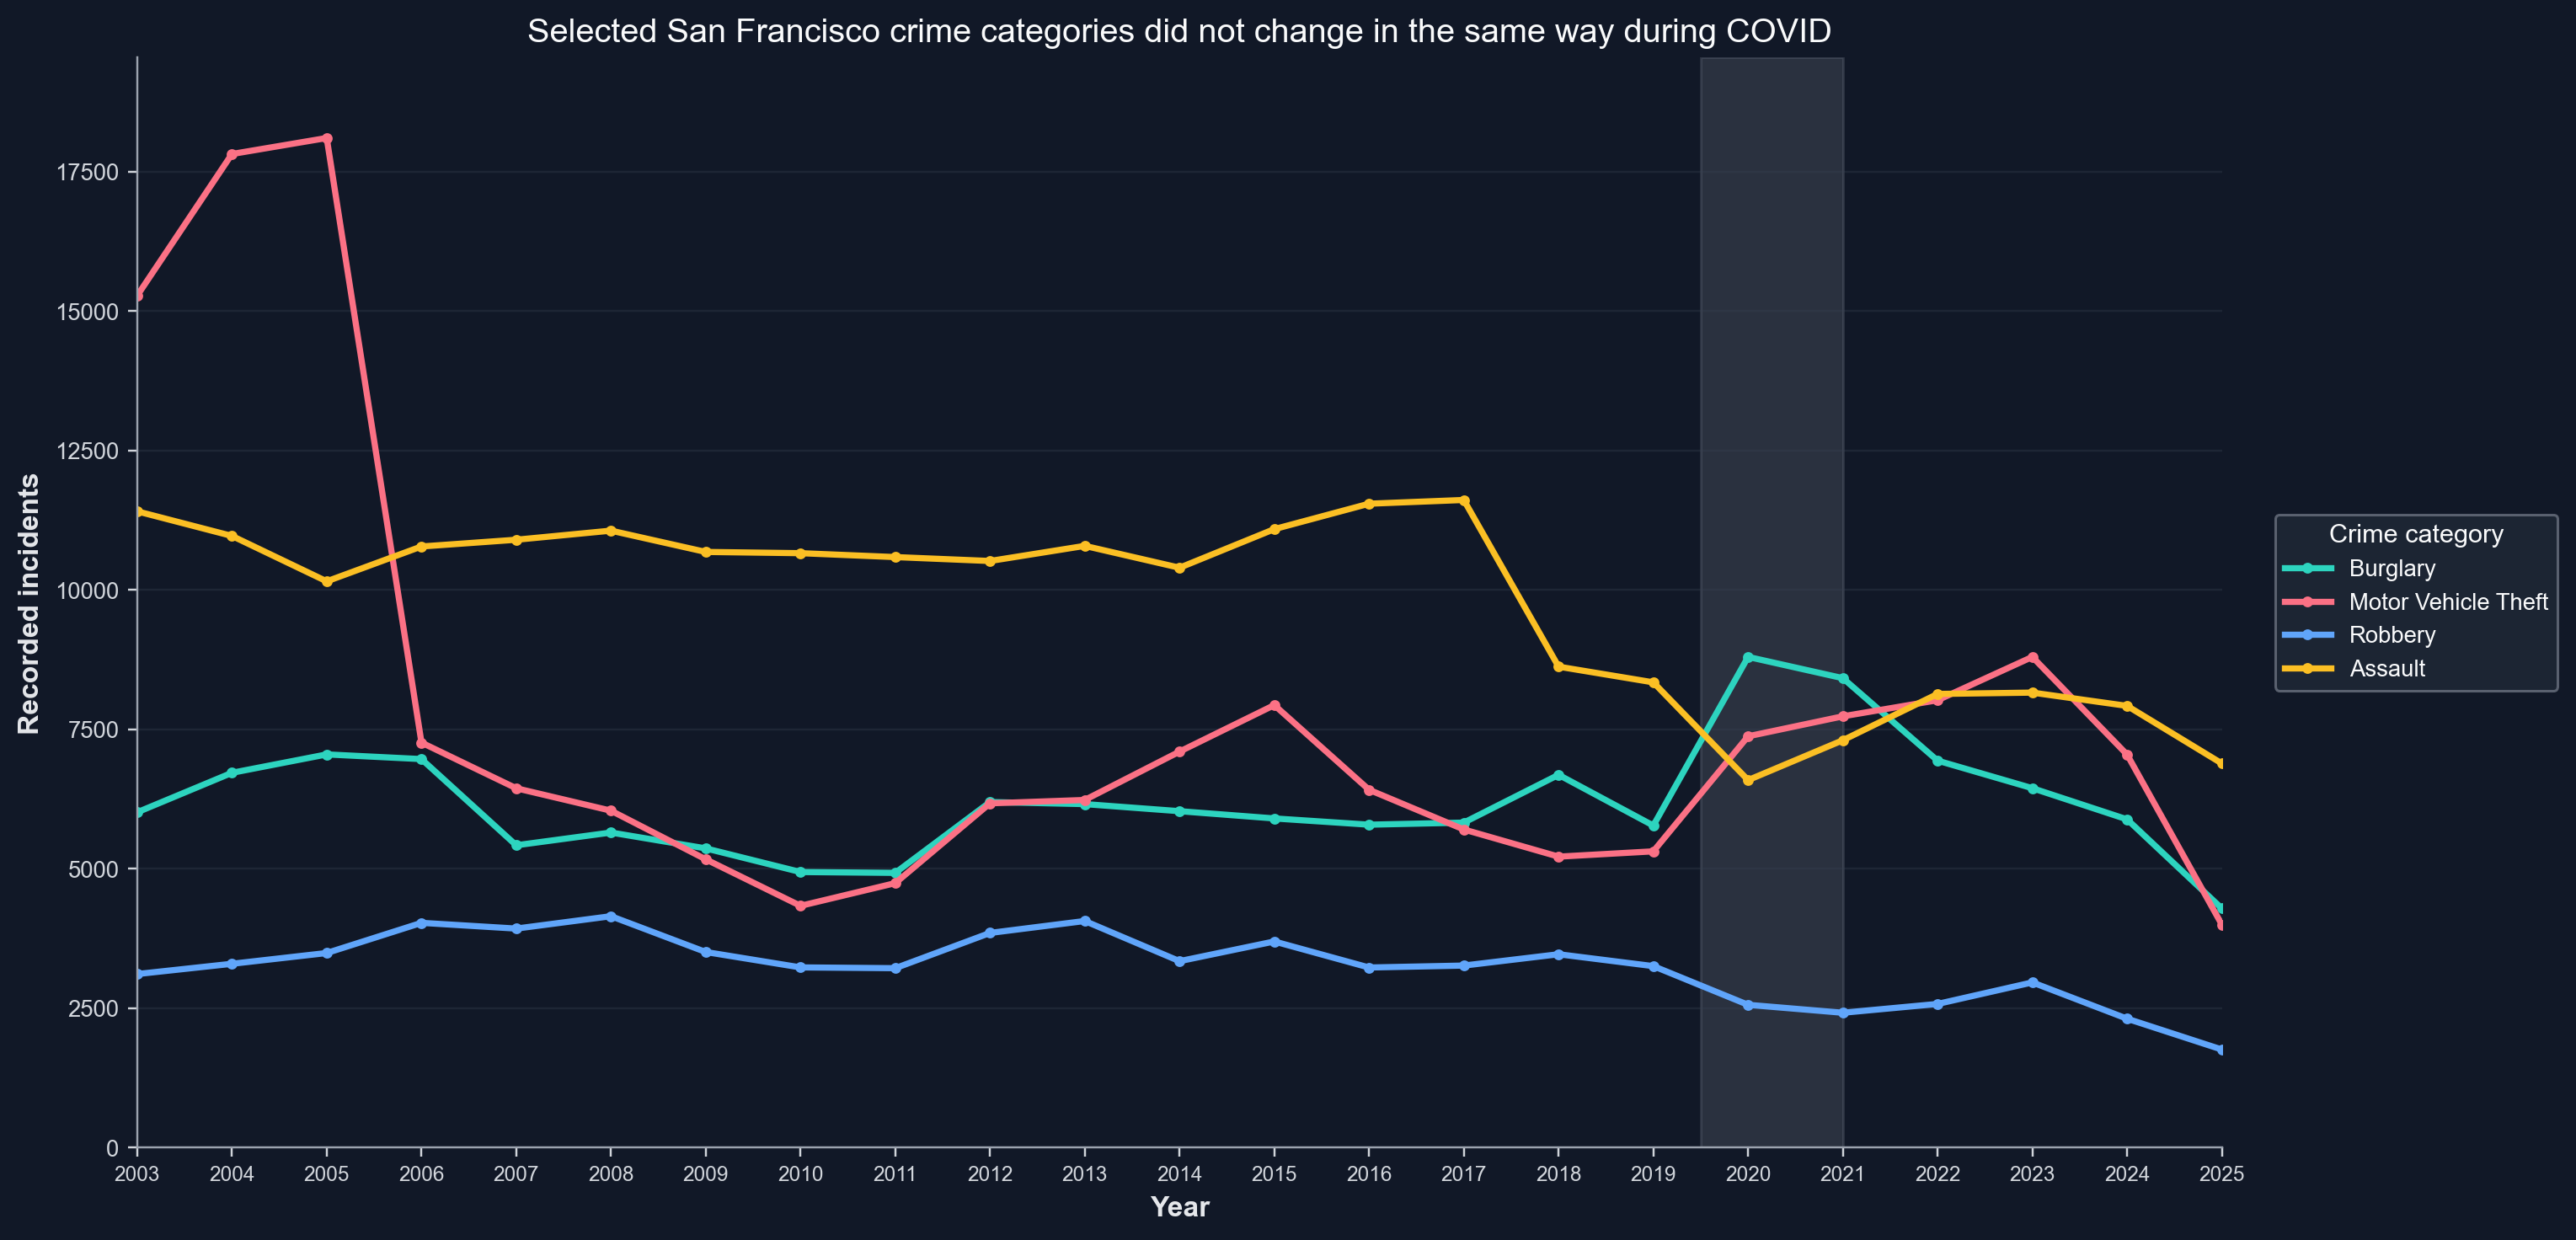
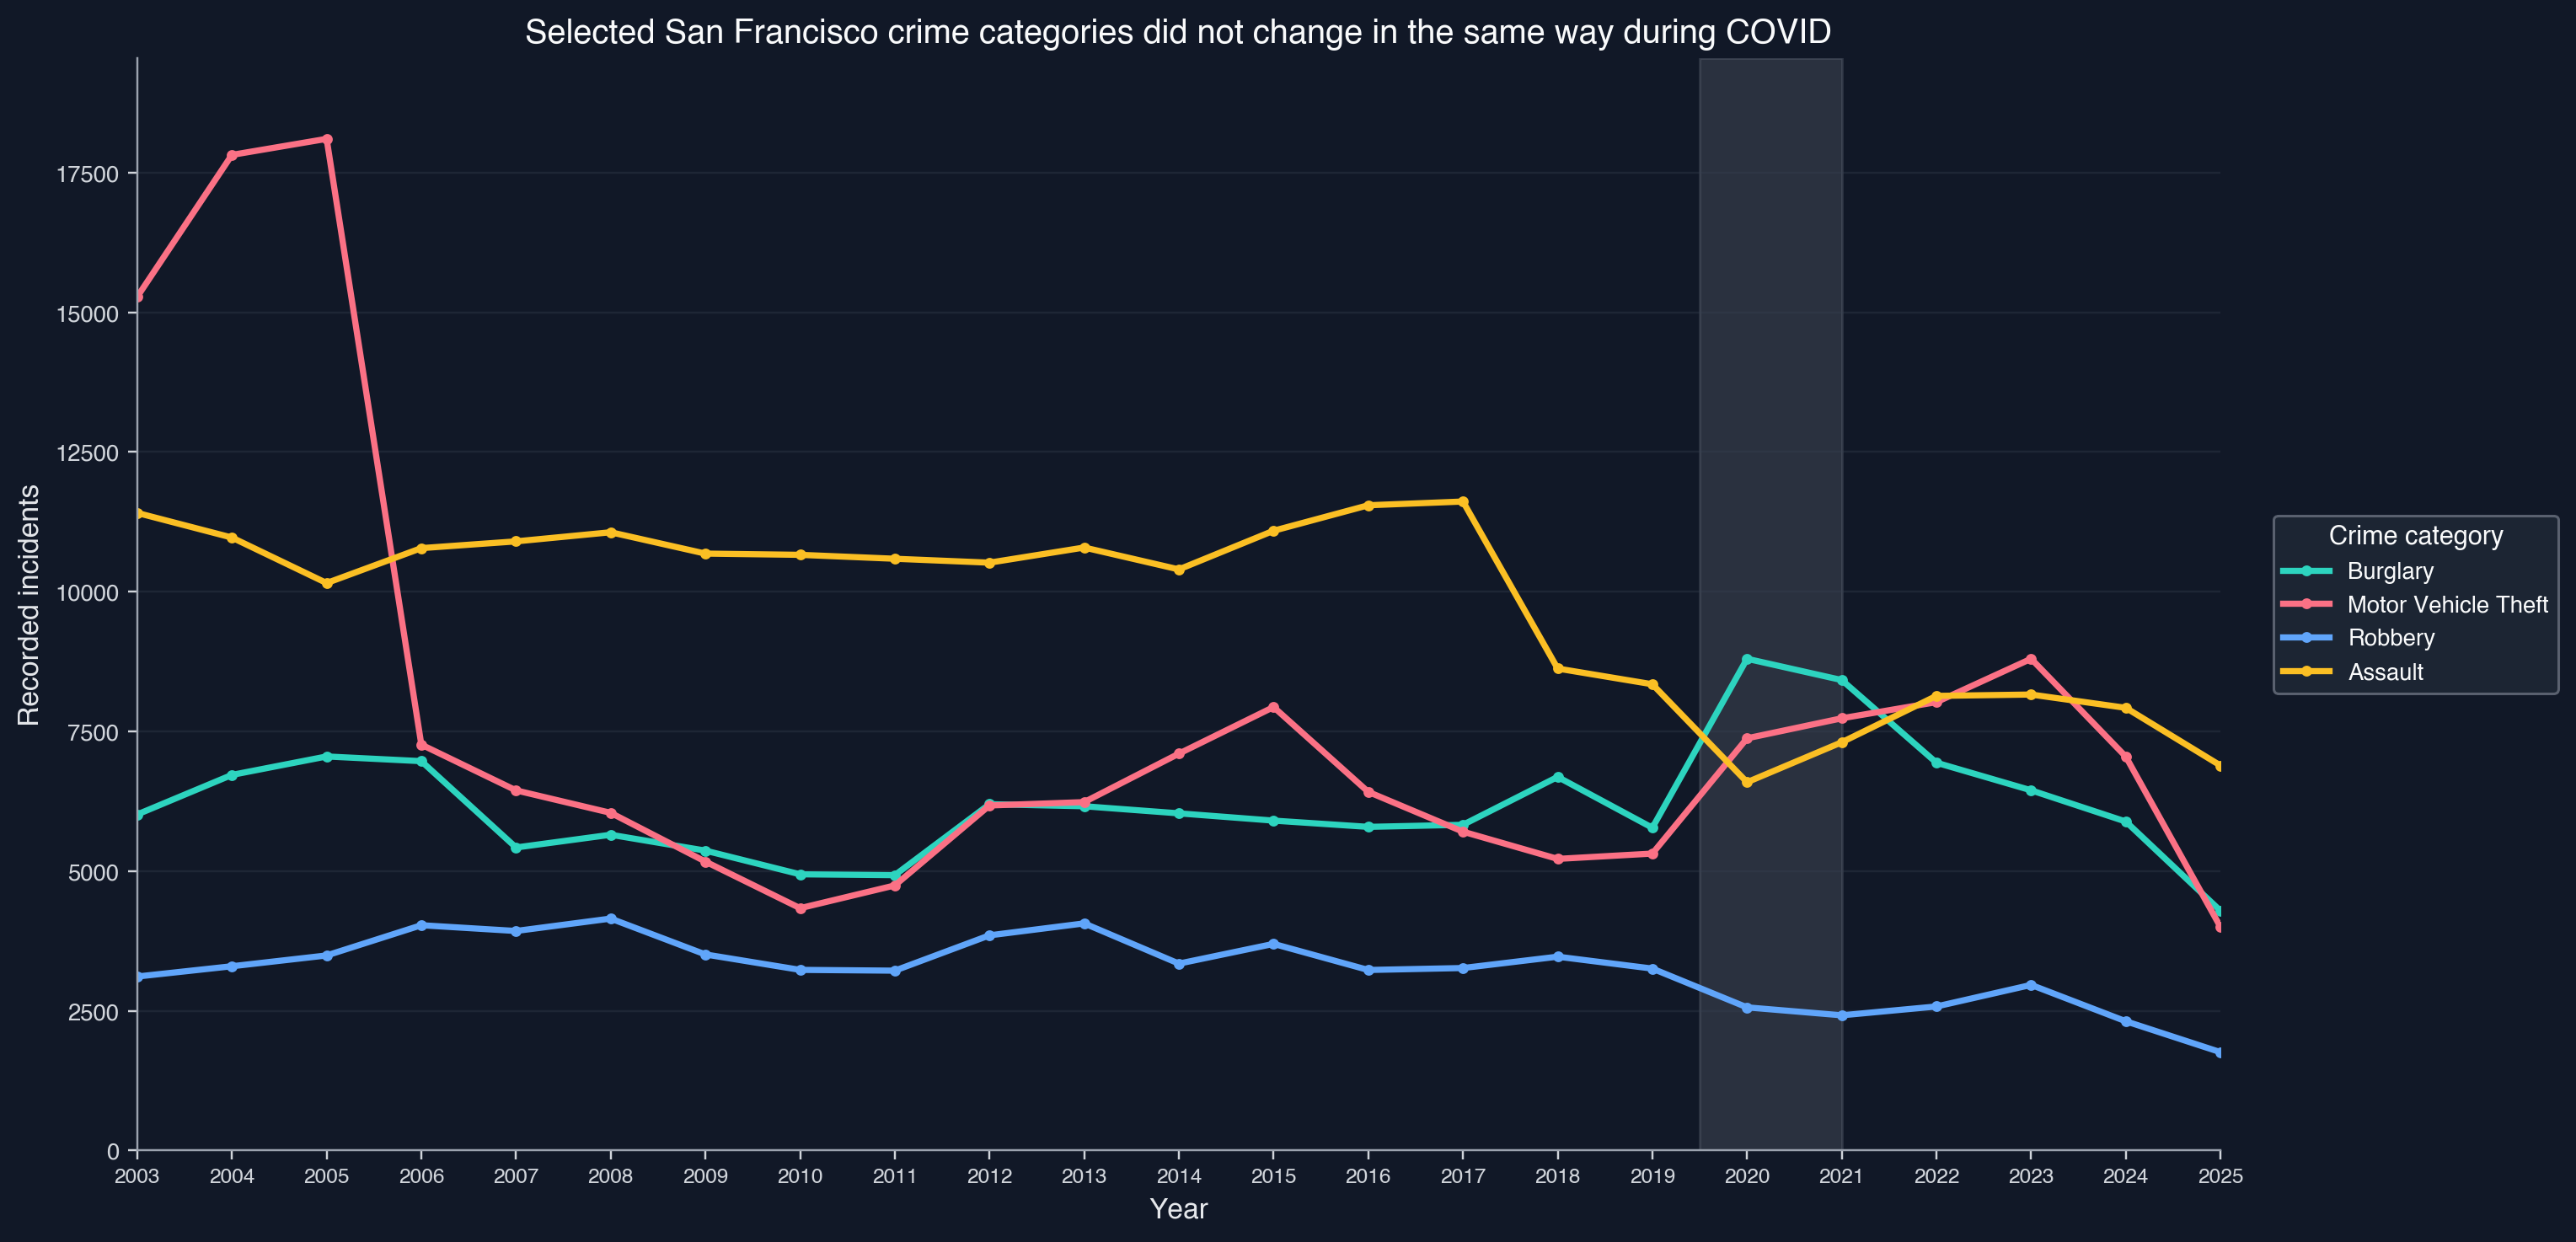
update visualizations

diff --git a/visualizations/district_before_vs_during_selector.html b/visualizations/district_before_vs_during_selector.html
@@ -86,8 +86,8 @@
     <div class="wrapper">
         <div class="layout">
             <div class="chart-area">
-                <div>                        <script>window.PlotlyConfig = {MathJaxConfig: 'local'};</script>
[1 lines of base64/hex data omitted]
+                <div>                        <script type="text/javascript">window.PlotlyConfig = {MathJaxConfig: 'local'};</script>
+        <script charset="utf-8" src="https://cdn.plot.ly/plotly-2.35.2.min.js"></script>                <div id="crimeChart" class="plotly-graph-div" style="height:700px; width:100%;"></div>            <script type="text/javascript">                                    window.PLOTLYENV=window.PLOTLYENV || {};                                    if (document.getElementById("crimeChart")) {                    Plotly.newPlot(                        "crimeChart",                        [{"hoverinfo":"skip","line":{"color":"rgba(156,163,175,0.45)","width":2},"mode":"lines","showlegend":false,"visible":true,"x":[292.0,371.5],"y":["TENDERLOIN","TENDERLOIN"],"type":"scatter"},{"hoverinfo":"skip","line":{"color":"rgba(156,163,175,0.45)","width":2},"mode":"lines","showlegend":false,"visible":true,"x":[552.5,564.5],"y":["BAYVIEW","BAYVIEW"],"type":"scatter"},{"hoverinfo":"skip","line":{"color":"rgba(156,163,175,0.45)","width":2},"mode":"lines","showlegend":false,"visible":true,"x":[350.5,639.5],"y":["PARK","PARK"],"type":"scatter"},{"hoverinfo":"skip","line":{"color":"rgba(156,163,175,0.45)","width":2},"mode":"lines","showlegend":false,"visible":true,"x":[509.5,643.0],"y":["TARAVAL","TARAVAL"],"type":"scatter"},{"hoverinfo":"skip","line":{"color":"rgba(156,163,175,0.45)","width":2},"mode":"lines","showlegend":false,"visible":true,"x":[349.0,702.5],"y":["RICHMOND","RICHMOND"],"type":"scatter"},{"hoverinfo":"skip","line":{"color":"rgba(156,163,175,0.45)","width":2},"mode":"lines","showlegend":false,"visible":true,"x":[580.5,725.5],"y":["INGLESIDE","INGLESIDE"],"type":"scatter"},{"hoverinfo":"skip","line":{"color":"rgba(156,163,175,0.45)","width":2},"mode":"lines","showlegend":false,"visible":true,"x":[614.5,1061.5],"y":["MISSION","MISSION"],"type":"scatter"},{"hoverinfo":"skip","line":{"color":"rgba(156,163,175,0.45)","width":2},"mode":"lines","showlegend":false,"visible":true,"x":[949.5,1085.0],"y":["SOUTHERN","SOUTHERN"],"type":"scatter"},{"hoverinfo":"skip","line":{"color":"rgba(156,163,175,0.45)","width":2},"mode":"lines","showlegend":false,"visible":true,"x":[1049.0,1140.0],"y":["CENTRAL","CENTRAL"],"type":"scatter"},{"hoverinfo":"skip","line":{"color":"rgba(156,163,175,0.45)","width":2},"mode":"lines","showlegend":false,"visible":true,"x":[967.0,1650.0],"y":["NORTHERN","NORTHERN"],"type":"scatter"},{"customdata":[[371.5,27.22602739726027],[564.5,2.171945701357466],[639.5,82.45363766048503],[643.0,26.20215897939156],[702.5,101.2893982808023],[725.5,24.978466838931958],[1061.5,72.74206672091131],[1085.0,14.270668773038441],[1140.0,8.674928503336512],[1650.0,70.63081695966909]],"hovertemplate":"\u003cb\u003e%{y}\u003c\u002fb\u003e\u003cbr\u003eBefore COVID avg: %{x:.1f} incidents\u002fyear\u003cbr\u003eDuring COVID avg: %{customdata[0]:.1f} incidents\u002fyear\u003cbr\u003ePercent change: %{customdata[1]:.1f}%\u003cextra\u003e\u003c\u002fextra\u003e","marker":{"color":"#60A5FA","size":10},"mode":"markers","showlegend":false,"visible":true,"x":[292.0,552.5,350.5,509.5,349.0,580.5,614.5,949.5,1049.0,967.0],"y":["TENDERLOIN","BAYVIEW","PARK","TARAVAL","RICHMOND","INGLESIDE","MISSION","SOUTHERN","CENTRAL","NORTHERN"],"type":"scatter"},{"customdata":[[292.0,27.22602739726027],[552.5,2.171945701357466],[350.5,82.45363766048503],[509.5,26.20215897939156],[349.0,101.2893982808023],[580.5,24.978466838931958],[614.5,72.74206672091131],[949.5,14.270668773038441],[1049.0,8.674928503336512],[967.0,70.63081695966909]],"hovertemplate":"\u003cb\u003e%{y}\u003c\u002fb\u003e\u003cbr\u003eDuring COVID avg: %{x:.1f} incidents\u002fyear\u003cbr\u003eBefore COVID avg: %{customdata[0]:.1f} incidents\u002fyear\u003cbr\u003ePercent change: %{customdata[1]:.1f}%\u003cextra\u003e\u003c\u002fextra\u003e","marker":{"color":"#FB7185","size":10},"mode":"markers","showlegend":false,"visible":true,"x":[371.5,564.5,639.5,643.0,702.5,725.5,1061.5,1085.0,1140.0,1650.0],"y":["TENDERLOIN","BAYVIEW","PARK","TARAVAL","RICHMOND","INGLESIDE","MISSION","SOUTHERN","CENTRAL","NORTHERN"],"type":"scatter"},{"hoverinfo":"skip","line":{"color":"rgba(156,163,175,0.45)","width":2},"mode":"lines","showlegend":false,"visible":false,"x":[216.0,350.0],"y":["TENDERLOIN","TENDERLOIN"],"type":"scatter"},{"hoverinfo":"skip","line":{"color":"rgba(156,163,175,0.45)","width":2},"mode":"lines","showlegend":false,"visible":false,"x":[282.5,395.0],"y":["PARK","PARK"],"type":"scatter"},{"hoverinfo":"skip","line":{"color":"rgba(156,163,175,0.45)","width":2},"mode":"lines","showlegend":false,"visible":false,"x":[338.5,519.0],"y":["RICHMOND","RICHMOND"],"type":"scatter"},{"hoverinfo":"skip","line":{"color":"rgba(156,163,175,0.45)","width":2},"mode":"lines","showlegend":false,"visible":false,"x":[507.0,536.0],"y":["CENTRAL","CENTRAL"],"type":"scatter"},{"hoverinfo":"skip","line":{"color":"rgba(156,163,175,0.45)","width":2},"mode":"lines","showlegend":false,"visible":false,"x":[603.5,698.0],"y":["SOUTHERN","SOUTHERN"],"type":"scatter"},{"hoverinfo":"skip","line":{"color":"rgba(156,163,175,0.45)","width":2},"mode":"lines","showlegend":false,"visible":false,"x":[499.5,743.5],"y":["TARAVAL","TARAVAL"],"type":"scatter"},{"hoverinfo":"skip","line":{"color":"rgba(156,163,175,0.45)","width":2},"mode":"lines","showlegend":false,"visible":false,"x":[582.5,867.0],"y":["NORTHERN","NORTHERN"],"type":"scatter"},{"hoverinfo":"skip","line":{"color":"rgba(156,163,175,0.45)","width":2},"mode":"lines","showlegend":false,"visible":false,"x":[691.5,981.0],"y":["MISSION","MISSION"],"type":"scatter"},{"hoverinfo":"skip","line":{"color":"rgba(156,163,175,0.45)","width":2},"mode":"lines","showlegend":false,"visible":false,"x":[626.0,1105.5],"y":["INGLESIDE","INGLESIDE"],"type":"scatter"},{"hoverinfo":"skip","line":{"color":"rgba(156,163,175,0.45)","width":2},"mode":"lines","showlegend":false,"visible":false,"x":[848.0,1268.0],"y":["BAYVIEW","BAYVIEW"],"type":"scatter"},{"customdata":[[350.0,62.03703703703704],[395.0,39.823008849557525],[519.0,53.32348596750369],[536.0,5.719921104536489],[698.0,15.658657829328915],[743.5,48.848848848848846],[867.0,48.8412017167382],[981.0,41.86550976138829],[1105.5,76.59744408945687],[1268.0,49.528301886792455]],"hovertemplate":"\u003cb\u003e%{y}\u003c\u002fb\u003e\u003cbr\u003eBefore COVID avg: %{x:.1f} incidents\u002fyear\u003cbr\u003eDuring COVID avg: %{customdata[0]:.1f} incidents\u002fyear\u003cbr\u003ePercent change: %{customdata[1]:.1f}%\u003cextra\u003e\u003c\u002fextra\u003e","marker":{"color":"#60A5FA","size":10},"mode":"markers","showlegend":false,"visible":false,"x":[216.0,282.5,338.5,507.0,603.5,499.5,582.5,691.5,626.0,848.0],"y":["TENDERLOIN","PARK","RICHMOND","CENTRAL","SOUTHERN","TARAVAL","NORTHERN","MISSION","INGLESIDE","BAYVIEW"],"type":"scatter"},{"customdata":[[216.0,62.03703703703704],[282.5,39.823008849557525],[338.5,53.32348596750369],[507.0,5.719921104536489],[603.5,15.658657829328915],[499.5,48.848848848848846],[582.5,48.8412017167382],[691.5,41.86550976138829],[626.0,76.59744408945687],[848.0,49.528301886792455]],"hovertemplate":"\u003cb\u003e%{y}\u003c\u002fb\u003e\u003cbr\u003eDuring COVID avg: %{x:.1f} incidents\u002fyear\u003cbr\u003eBefore COVID avg: %{customdata[0]:.1f} incidents\u002fyear\u003cbr\u003ePercent change: %{customdata[1]:.1f}%\u003cextra\u003e\u003c\u002fextra\u003e","marker":{"color":"#FB7185","size":10},"mode":"markers","showlegend":false,"visible":false,"x":[350.0,395.0,519.0,536.0,698.0,743.5,867.0,981.0,1105.5,1268.0],"y":["TENDERLOIN","PARK","RICHMOND","CENTRAL","SOUTHERN","TARAVAL","NORTHERN","MISSION","INGLESIDE","BAYVIEW"],"type":"scatter"},{"hoverinfo":"skip","line":{"color":"rgba(156,163,175,0.45)","width":2},"mode":"lines","showlegend":false,"visible":false,"x":[70.5,52.0],"y":["PARK","PARK"],"type":"scatter"},{"hoverinfo":"skip","line":{"color":"rgba(156,163,175,0.45)","width":2},"mode":"lines","showlegend":false,"visible":false,"x":[103.5,111.0],"y":["RICHMOND","RICHMOND"],"type":"scatter"},{"hoverinfo":"skip","line":{"color":"rgba(156,163,175,0.45)","width":2},"mode":"lines","showlegend":false,"visible":false,"x":[152.5,119.0],"y":["TARAVAL","TARAVAL"],"type":"scatter"},{"hoverinfo":"skip","line":{"color":"rgba(156,163,175,0.45)","width":2},"mode":"lines","showlegend":false,"visible":false,"x":[330.0,257.5],"y":["INGLESIDE","INGLESIDE"],"type":"scatter"},{"hoverinfo":"skip","line":{"color":"rgba(156,163,175,0.45)","width":2},"mode":"lines","showlegend":false,"visible":false,"x":[363.0,261.5],"y":["SOUTHERN","SOUTHERN"],"type":"scatter"},{"hoverinfo":"skip","line":{"color":"rgba(156,163,175,0.45)","width":2},"mode":"lines","showlegend":false,"visible":false,"x":[371.5,262.0],"y":["BAYVIEW","BAYVIEW"],"type":"scatter"},{"hoverinfo":"skip","line":{"color":"rgba(156,163,175,0.45)","width":2},"mode":"lines","showlegend":false,"visible":false,"x":[506.0,337.0],"y":["TENDERLOIN","TENDERLOIN"],"type":"scatter"},{"hoverinfo":"skip","line":{"color":"rgba(156,163,175,0.45)","width":2},"mode":"lines","showlegend":false,"visible":false,"x":[386.5,340.5],"y":["NORTHERN","NORTHERN"],"type":"scatter"},{"hoverinfo":"skip","line":{"color":"rgba(156,163,175,0.45)","width":2},"mode":"lines","showlegend":false,"visible":false,"x":[539.0,345.0],"y":["CENTRAL","CENTRAL"],"type":"scatter"},{"hoverinfo":"skip","line":{"color":"rgba(156,163,175,0.45)","width":2},"mode":"lines","showlegend":false,"visible":false,"x":[503.5,370.5],"y":["MISSION","MISSION"],"type":"scatter"},{"customdata":[[52.0,-26.24113475177305],[111.0,7.246376811594203],[119.0,-21.9672131147541],[257.5,-21.96969696969697],[261.5,-27.96143250688705],[262.0,-29.475100942126513],[337.0,-33.39920948616601],[340.5,-11.901681759379043],[345.0,-35.99257884972171],[370.5,-26.41509433962264]],"hovertemplate":"\u003cb\u003e%{y}\u003c\u002fb\u003e\u003cbr\u003eBefore COVID avg: %{x:.1f} incidents\u002fyear\u003cbr\u003eDuring COVID avg: %{customdata[0]:.1f} incidents\u002fyear\u003cbr\u003ePercent change: %{customdata[1]:.1f}%\u003cextra\u003e\u003c\u002fextra\u003e","marker":{"color":"#60A5FA","size":10},"mode":"markers","showlegend":false,"visible":false,"x":[70.5,103.5,152.5,330.0,363.0,371.5,506.0,386.5,539.0,503.5],"y":["PARK","RICHMOND","TARAVAL","INGLESIDE","SOUTHERN","BAYVIEW","TENDERLOIN","NORTHERN","CENTRAL","MISSION"],"type":"scatter"},{"customdata":[[70.5,-26.24113475177305],[103.5,7.246376811594203],[152.5,-21.9672131147541],[330.0,-21.96969696969697],[363.0,-27.96143250688705],[371.5,-29.475100942126513],[506.0,-33.39920948616601],[386.5,-11.901681759379043],[539.0,-35.99257884972171],[503.5,-26.41509433962264]],"hovertemplate":"\u003cb\u003e%{y}\u003c\u002fb\u003e\u003cbr\u003eDuring COVID avg: %{x:.1f} incidents\u002fyear\u003cbr\u003eBefore COVID avg: %{customdata[0]:.1f} incidents\u002fyear\u003cbr\u003ePercent change: %{customdata[1]:.1f}%\u003cextra\u003e\u003c\u002fextra\u003e","marker":{"color":"#FB7185","size":10},"mode":"markers","showlegend":false,"visible":false,"x":[52.0,111.0,119.0,257.5,261.5,262.0,337.0,340.5,345.0,370.5],"y":["PARK","RICHMOND","TARAVAL","INGLESIDE","SOUTHERN","BAYVIEW","TENDERLOIN","NORTHERN","CENTRAL","MISSION"],"type":"scatter"},{"hoverinfo":"skip","line":{"color":"rgba(156,163,175,0.45)","width":2},"mode":"lines","showlegend":false,"visible":false,"x":[287.5,199.0],"y":["PARK","PARK"],"type":"scatter"},{"hoverinfo":"skip","line":{"color":"rgba(156,163,175,0.45)","width":2},"mode":"lines","showlegend":false,"visible":false,"x":[267.5,240.5],"y":["RICHMOND","RICHMOND"],"type":"scatter"},{"hoverinfo":"skip","line":{"color":"rgba(156,163,175,0.45)","width":2},"mode":"lines","showlegend":false,"visible":false,"x":[459.5,376.5],"y":["TARAVAL","TARAVAL"],"type":"scatter"},{"hoverinfo":"skip","line":{"color":"rgba(156,163,175,0.45)","width":2},"mode":"lines","showlegend":false,"visible":false,"x":[655.5,581.0],"y":["INGLESIDE","INGLESIDE"],"type":"scatter"},{"hoverinfo":"skip","line":{"color":"rgba(156,163,175,0.45)","width":2},"mode":"lines","showlegend":false,"visible":false,"x":[1000.5,742.0],"y":["CENTRAL","CENTRAL"],"type":"scatter"},{"hoverinfo":"skip","line":{"color":"rgba(156,163,175,0.45)","width":2},"mode":"lines","showlegend":false,"visible":false,"x":[897.5,790.0],"y":["NORTHERN","NORTHERN"],"type":"scatter"},{"hoverinfo":"skip","line":{"color":"rgba(156,163,175,0.45)","width":2},"mode":"lines","showlegend":false,"visible":false,"x":[933.0,858.5],"y":["BAYVIEW","BAYVIEW"],"type":"scatter"},{"hoverinfo":"skip","line":{"color":"rgba(156,163,175,0.45)","width":2},"mode":"lines","showlegend":false,"visible":false,"x":[1163.0,896.0],"y":["SOUTHERN","SOUTHERN"],"type":"scatter"},{"hoverinfo":"skip","line":{"color":"rgba(156,163,175,0.45)","width":2},"mode":"lines","showlegend":false,"visible":false,"x":[1454.5,1081.5],"y":["MISSION","MISSION"],"type":"scatter"},{"hoverinfo":"skip","line":{"color":"rgba(156,163,175,0.45)","width":2},"mode":"lines","showlegend":false,"visible":false,"x":[1316.5,1127.0],"y":["TENDERLOIN","TENDERLOIN"],"type":"scatter"},{"customdata":[[199.0,-30.782608695652176],[240.5,-10.093457943925234],[376.5,-18.063112078346027],[581.0,-11.365369946605645],[742.0,-25.837081459270365],[790.0,-11.977715877437326],[858.5,-7.984994640943194],[896.0,-22.957867583834908],[1081.5,-25.64455139223101],[1127.0,-14.394227117356628]],"hovertemplate":"\u003cb\u003e%{y}\u003c\u002fb\u003e\u003cbr\u003eBefore COVID avg: %{x:.1f} incidents\u002fyear\u003cbr\u003eDuring COVID avg: %{customdata[0]:.1f} incidents\u002fyear\u003cbr\u003ePercent change: %{customdata[1]:.1f}%\u003cextra\u003e\u003c\u002fextra\u003e","marker":{"color":"#60A5FA","size":10},"mode":"markers","showlegend":false,"visible":false,"x":[287.5,267.5,459.5,655.5,1000.5,897.5,933.0,1163.0,1454.5,1316.5],"y":["PARK","RICHMOND","TARAVAL","INGLESIDE","CENTRAL","NORTHERN","BAYVIEW","SOUTHERN","MISSION","TENDERLOIN"],"type":"scatter"},{"customdata":[[287.5,-30.782608695652176],[267.5,-10.093457943925234],[459.5,-18.063112078346027],[655.5,-11.365369946605645],[1000.5,-25.837081459270365],[897.5,-11.977715877437326],[933.0,-7.984994640943194],[1163.0,-22.957867583834908],[1454.5,-25.64455139223101],[1316.5,-14.394227117356628]],"hovertemplate":"\u003cb\u003e%{y}\u003c\u002fb\u003e\u003cbr\u003eDuring COVID avg: %{x:.1f} incidents\u002fyear\u003cbr\u003eBefore COVID avg: %{customdata[0]:.1f} incidents\u002fyear\u003cbr\u003ePercent change: %{customdata[1]:.1f}%\u003cextra\u003e\u003c\u002fextra\u003e","marker":{"color":"#FB7185","size":10},"mode":"markers","showlegend":false,"visible":false,"x":[199.0,240.5,376.5,581.0,742.0,790.0,858.5,896.0,1081.5,1127.0],"y":["PARK","RICHMOND","TARAVAL","INGLESIDE","CENTRAL","NORTHERN","BAYVIEW","SOUTHERN","MISSION","TENDERLOIN"],"type":"scatter"}],                        {"template":{"data":{"barpolar":[{"marker":{"line":{"color":"rgb(17,17,17)","width":0.5},"pattern":{"fillmode":"overlay","size":10,"solidity":0.2}},"type":"barpolar"}],"bar":[{"error_x":{"color":"#f2f5fa"},"error_y":{"color":"#f2f5fa"},"marker":{"line":{"color":"rgb(17,17,17)","width":0.5},"pattern":{"fillmode":"overlay","size":10,"solidity":0.2}},"type":"bar"}],"carpet":[{"aaxis":{"endlinecolor":"#A2B1C6","gridcolor":"#506784","linecolor":"#506784","minorgridcolor":"#506784","startlinecolor":"#A2B1C6"},"baxis":{"endlinecolor":"#A2B1C6","gridcolor":"#506784","linecolor":"#506784","minorgridcolor":"#506784","startlinecolor":"#A2B1C6"},"type":"carpet"}],"choropleth":[{"colorbar":{"outlinewidth":0,"ticks":""},"type":"choropleth"}],"contourcarpet":[{"colorbar":{"outlinewidth":0,"ticks":""},"type":"contourcarpet"}],"contour":[{"colorbar":{"outlinewidth":0,"ticks":""},"colorscale":[[0.0,"#0d0887"],[0.1111111111111111,"#46039f"],[0.2222222222222222,"#7201a8"],[0.3333333333333333,"#9c179e"],[0.4444444444444444,"#bd3786"],[0.5555555555555556,"#d8576b"],[0.6666666666666666,"#ed7953"],[0.7777777777777778,"#fb9f3a"],[0.8888888888888888,"#fdca26"],[1.0,"#f0f921"]],"type":"contour"}],"heatmapgl":[{"colorbar":{"outlinewidth":0,"ticks":""},"colorscale":[[0.0,"#0d0887"],[0.1111111111111111,"#46039f"],[0.2222222222222222,"#7201a8"],[0.3333333333333333,"#9c179e"],[0.4444444444444444,"#bd3786"],[0.5555555555555556,"#d8576b"],[0.6666666666666666,"#ed7953"],[0.7777777777777778,"#fb9f3a"],[0.8888888888888888,"#fdca26"],[1.0,"#f0f921"]],"type":"heatmapgl"}],"heatmap":[{"colorbar":{"outlinewidth":0,"ticks":""},"colorscale":[[0.0,"#0d0887"],[0.1111111111111111,"#46039f"],[0.2222222222222222,"#7201a8"],[0.3333333333333333,"#9c179e"],[0.4444444444444444,"#bd3786"],[0.5555555555555556,"#d8576b"],[0.6666666666666666,"#ed7953"],[0.7777777777777778,"#fb9f3a"],[0.8888888888888888,"#fdca26"],[1.0,"#f0f921"]],"type":"heatmap"}],"histogram2dcontour":[{"colorbar":{"outlinewidth":0,"ticks":""},"colorscale":[[0.0,"#0d0887"],[0.1111111111111111,"#46039f"],[0.2222222222222222,"#7201a8"],[0.3333333333333333,"#9c179e"],[0.4444444444444444,"#bd3786"],[0.5555555555555556,"#d8576b"],[0.6666666666666666,"#ed7953"],[0.7777777777777778,"#fb9f3a"],[0.8888888888888888,"#fdca26"],[1.0,"#f0f921"]],"type":"histogram2dcontour"}],"histogram2d":[{"colorbar":{"outlinewidth":0,"ticks":""},"colorscale":[[0.0,"#0d0887"],[0.1111111111111111,"#46039f"],[0.2222222222222222,"#7201a8"],[0.3333333333333333,"#9c179e"],[0.4444444444444444,"#bd3786"],[0.5555555555555556,"#d8576b"],[0.6666666666666666,"#ed7953"],[0.7777777777777778,"#fb9f3a"],[0.8888888888888888,"#fdca26"],[1.0,"#f0f921"]],"type":"histogram2d"}],"histogram":[{"marker":{"pattern":{"fillmode":"overlay","size":10,"solidity":0.2}},"type":"histogram"}],"mesh3d":[{"colorbar":{"outlinewidth":0,"ticks":""},"type":"mesh3d"}],"parcoords":[{"line":{"colorbar":{"outlinewidth":0,"ticks":""}},"type":"parcoords"}],"pie":[{"automargin":true,"type":"pie"}],"scatter3d":[{"line":{"colorbar":{"outlinewidth":0,"ticks":""}},"marker":{"colorbar":{"outlinewidth":0,"ticks":""}},"type":"scatter3d"}],"scattercarpet":[{"marker":{"colorbar":{"outlinewidth":0,"ticks":""}},"type":"scattercarpet"}],"scattergeo":[{"marker":{"colorbar":{"outlinewidth":0,"ticks":""}},"type":"scattergeo"}],"scattergl":[{"marker":{"line":{"color":"#283442"}},"type":"scattergl"}],"scattermapbox":[{"marker":{"colorbar":{"outlinewidth":0,"ticks":""}},"type":"scattermapbox"}],"scatterpolargl":[{"marker":{"colorbar":{"outlinewidth":0,"ticks":""}},"type":"scatterpolargl"}],"scatterpolar":[{"marker":{"colorbar":{"outlinewidth":0,"ticks":""}},"type":"scatterpolar"}],"scatter":[{"marker":{"line":{"color":"#283442"}},"type":"scatter"}],"scatterternary":[{"marker":{"colorbar":{"outlinewidth":0,"ticks":""}},"type":"scatterternary"}],"surface":[{"colorbar":{"outlinewidth":0,"ticks":""},"colorscale":[[0.0,"#0d0887"],[0.1111111111111111,"#46039f"],[0.2222222222222222,"#7201a8"],[0.3333333333333333,"#9c179e"],[0.4444444444444444,"#bd3786"],[0.5555555555555556,"#d8576b"],[0.6666666666666666,"#ed7953"],[0.7777777777777778,"#fb9f3a"],[0.8888888888888888,"#fdca26"],[1.0,"#f0f921"]],"type":"surface"}],"table":[{"cells":{"fill":{"color":"#506784"},"line":{"color":"rgb(17,17,17)"}},"header":{"fill":{"color":"#2a3f5f"},"line":{"color":"rgb(17,17,17)"}},"type":"table"}]},"layout":{"annotationdefaults":{"arrowcolor":"#f2f5fa","arrowhead":0,"arrowwidth":1},"autotypenumbers":"strict","coloraxis":{"colorbar":{"outlinewidth":0,"ticks":""}},"colorscale":{"diverging":[[0,"#8e0152"],[0.1,"#c51b7d"],[0.2,"#de77ae"],[0.3,"#f1b6da"],[0.4,"#fde0ef"],[0.5,"#f7f7f7"],[0.6,"#e6f5d0"],[0.7,"#b8e186"],[0.8,"#7fbc41"],[0.9,"#4d9221"],[1,"#276419"]],"sequential":[[0.0,"#0d0887"],[0.1111111111111111,"#46039f"],[0.2222222222222222,"#7201a8"],[0.3333333333333333,"#9c179e"],[0.4444444444444444,"#bd3786"],[0.5555555555555556,"#d8576b"],[0.6666666666666666,"#ed7953"],[0.7777777777777778,"#fb9f3a"],[0.8888888888888888,"#fdca26"],[1.0,"#f0f921"]],"sequentialminus":[[0.0,"#0d0887"],[0.1111111111111111,"#46039f"],[0.2222222222222222,"#7201a8"],[0.3333333333333333,"#9c179e"],[0.4444444444444444,"#bd3786"],[0.5555555555555556,"#d8576b"],[0.6666666666666666,"#ed7953"],[0.7777777777777778,"#fb9f3a"],[0.8888888888888888,"#fdca26"],[1.0,"#f0f921"]]},"colorway":["#636efa","#EF553B","#00cc96","#ab63fa","#FFA15A","#19d3f3","#FF6692","#B6E880","#FF97FF","#FECB52"],"font":{"color":"#f2f5fa"},"geo":{"bgcolor":"rgb(17,17,17)","lakecolor":"rgb(17,17,17)","landcolor":"rgb(17,17,17)","showlakes":true,"showland":true,"subunitcolor":"#506784"},"hoverlabel":{"align":"left"},"hovermode":"closest","mapbox":{"style":"dark"},"paper_bgcolor":"rgb(17,17,17)","plot_bgcolor":"rgb(17,17,17)","polar":{"angularaxis":{"gridcolor":"#506784","linecolor":"#506784","ticks":""},"bgcolor":"rgb(17,17,17)","radialaxis":{"gridcolor":"#506784","linecolor":"#506784","ticks":""}},"scene":{"xaxis":{"backgroundcolor":"rgb(17,17,17)","gridcolor":"#506784","gridwidth":2,"linecolor":"#506784","showbackground":true,"ticks":"","zerolinecolor":"#C8D4E3"},"yaxis":{"backgroundcolor":"rgb(17,17,17)","gridcolor":"#506784","gridwidth":2,"linecolor":"#506784","showbackground":true,"ticks":"","zerolinecolor":"#C8D4E3"},"zaxis":{"backgroundcolor":"rgb(17,17,17)","gridcolor":"#506784","gridwidth":2,"linecolor":"#506784","showbackground":true,"ticks":"","zerolinecolor":"#C8D4E3"}},"shapedefaults":{"line":{"color":"#f2f5fa"}},"sliderdefaults":{"bgcolor":"#C8D4E3","bordercolor":"rgb(17,17,17)","borderwidth":1,"tickwidth":0},"ternary":{"aaxis":{"gridcolor":"#506784","linecolor":"#506784","ticks":""},"baxis":{"gridcolor":"#506784","linecolor":"#506784","ticks":""},"bgcolor":"rgb(17,17,17)","caxis":{"gridcolor":"#506784","linecolor":"#506784","ticks":""}},"title":{"x":0.05},"updatemenudefaults":{"bgcolor":"#506784","borderwidth":0},"xaxis":{"automargin":true,"gridcolor":"#283442","linecolor":"#506784","ticks":"","title":{"standoff":15},"zerolinecolor":"#283442","zerolinewidth":2},"yaxis":{"automargin":true,"gridcolor":"#283442","linecolor":"#506784","ticks":"","title":{"standoff":15},"zerolinecolor":"#283442","zerolinewidth":2}}},"font":{"color":"#E5E7EB"},"margin":{"l":40,"r":40,"t":90,"b":40},"hoverlabel":{"font":{"color":"#F9FAFB"},"bgcolor":"#374151","bordercolor":"#6B7280"},"title":{"text":"Average yearly incidents by district before and during COVID \u2014 Burglary"},"xaxis":{"title":{"text":"\u003cb\u003eAverage recorded incidents per year\u003c\u002fb\u003e","font":{"size":14,"color":"#F9FAFB","family":"Arial Black, Arial, sans-serif"}},"showgrid":true,"gridcolor":"rgba(75,85,99,0.35)","zeroline":false},"yaxis":{"title":{"text":"\u003cb\u003ePolice district\u003c\u002fb\u003e","font":{"size":14,"color":"#F9FAFB","family":"Arial Black, Arial, sans-serif"}},"showgrid":false,"zeroline":false},"paper_bgcolor":"#111827","plot_bgcolor":"#111827","height":700},                        {"responsive": true}                    )                };                            </script>        </div>
             </div>
             <div class="sidepanel">
                 <div class="section-title">Crime category</div>
@@ -100,11 +100,11 @@
                     <div class="section-title">Series</div>
                     <div class="legend-item">
                         <span class="legend-dot before"></span>
-                        <span>Before COVID (2018–2019 avg)</span>
+                        <span>Before COVID (2018-2019 avg)</span>
                     </div>
                     <div class="legend-item">
                         <span class="legend-dot during"></span>
-                        <span>During COVID (2020–2021 avg)</span>
+                        <span>During COVID (2020-2021 avg)</span>
                     </div>
                 </div>
             </div>